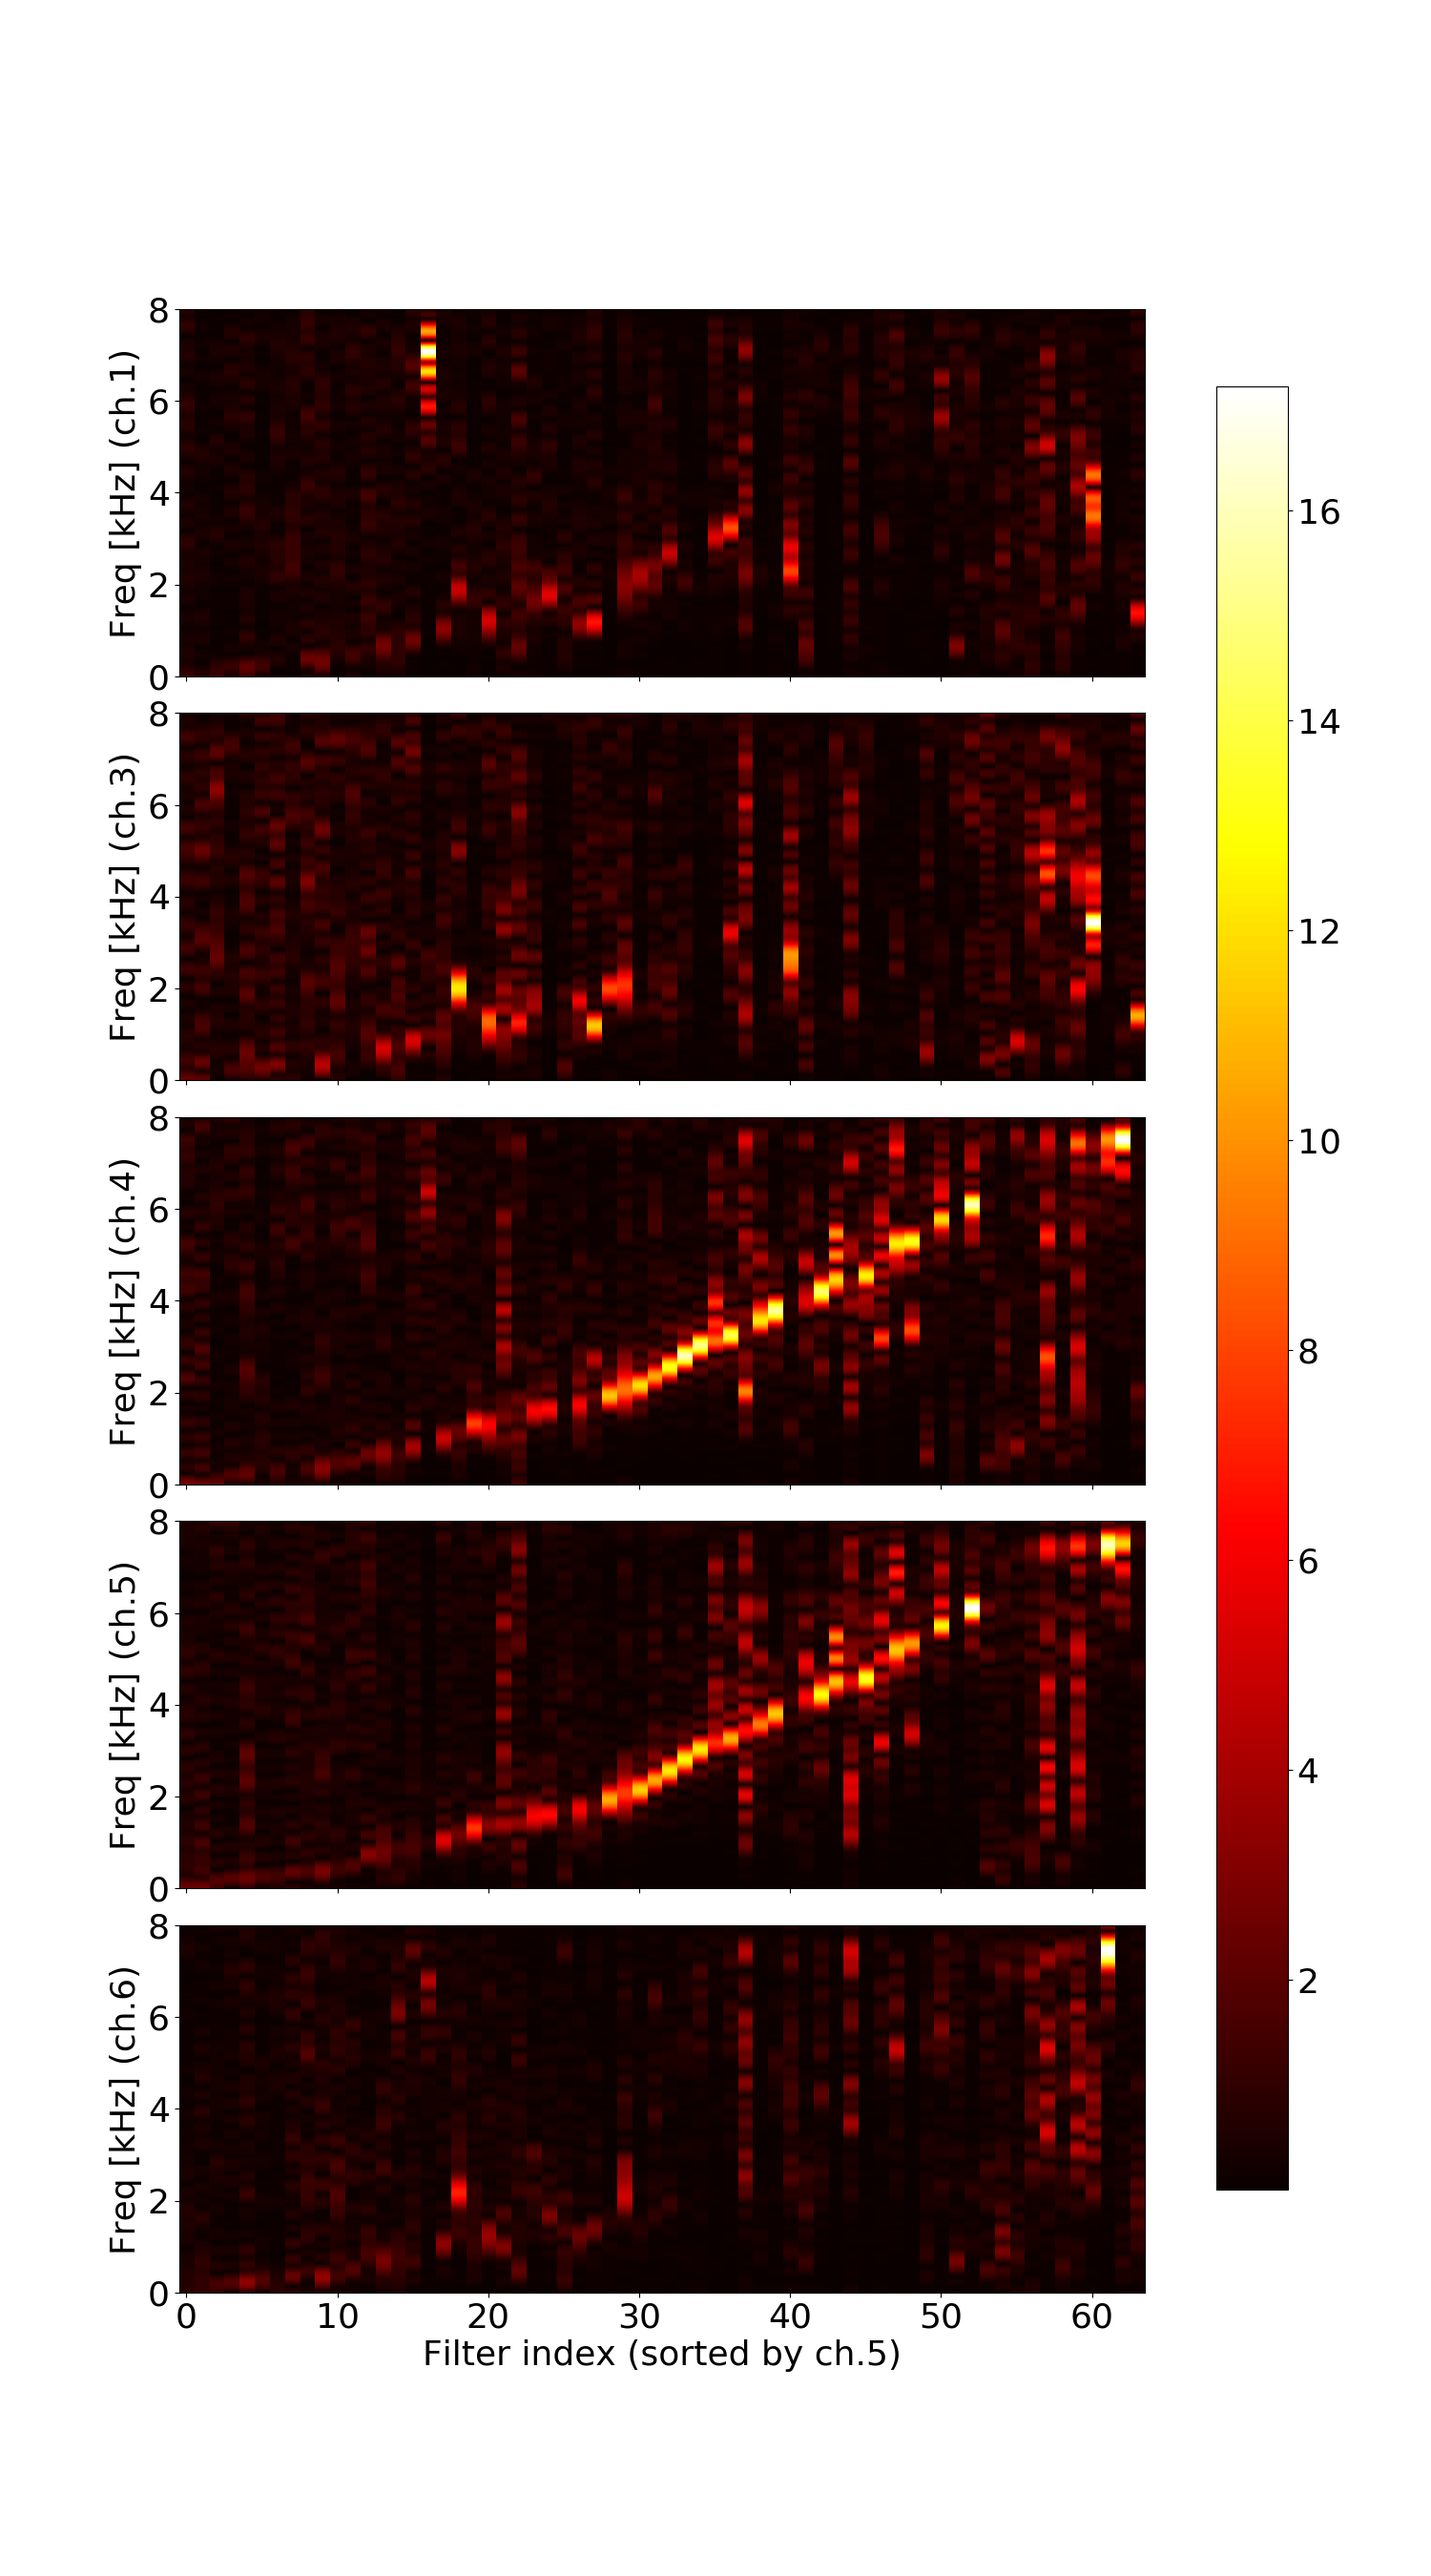
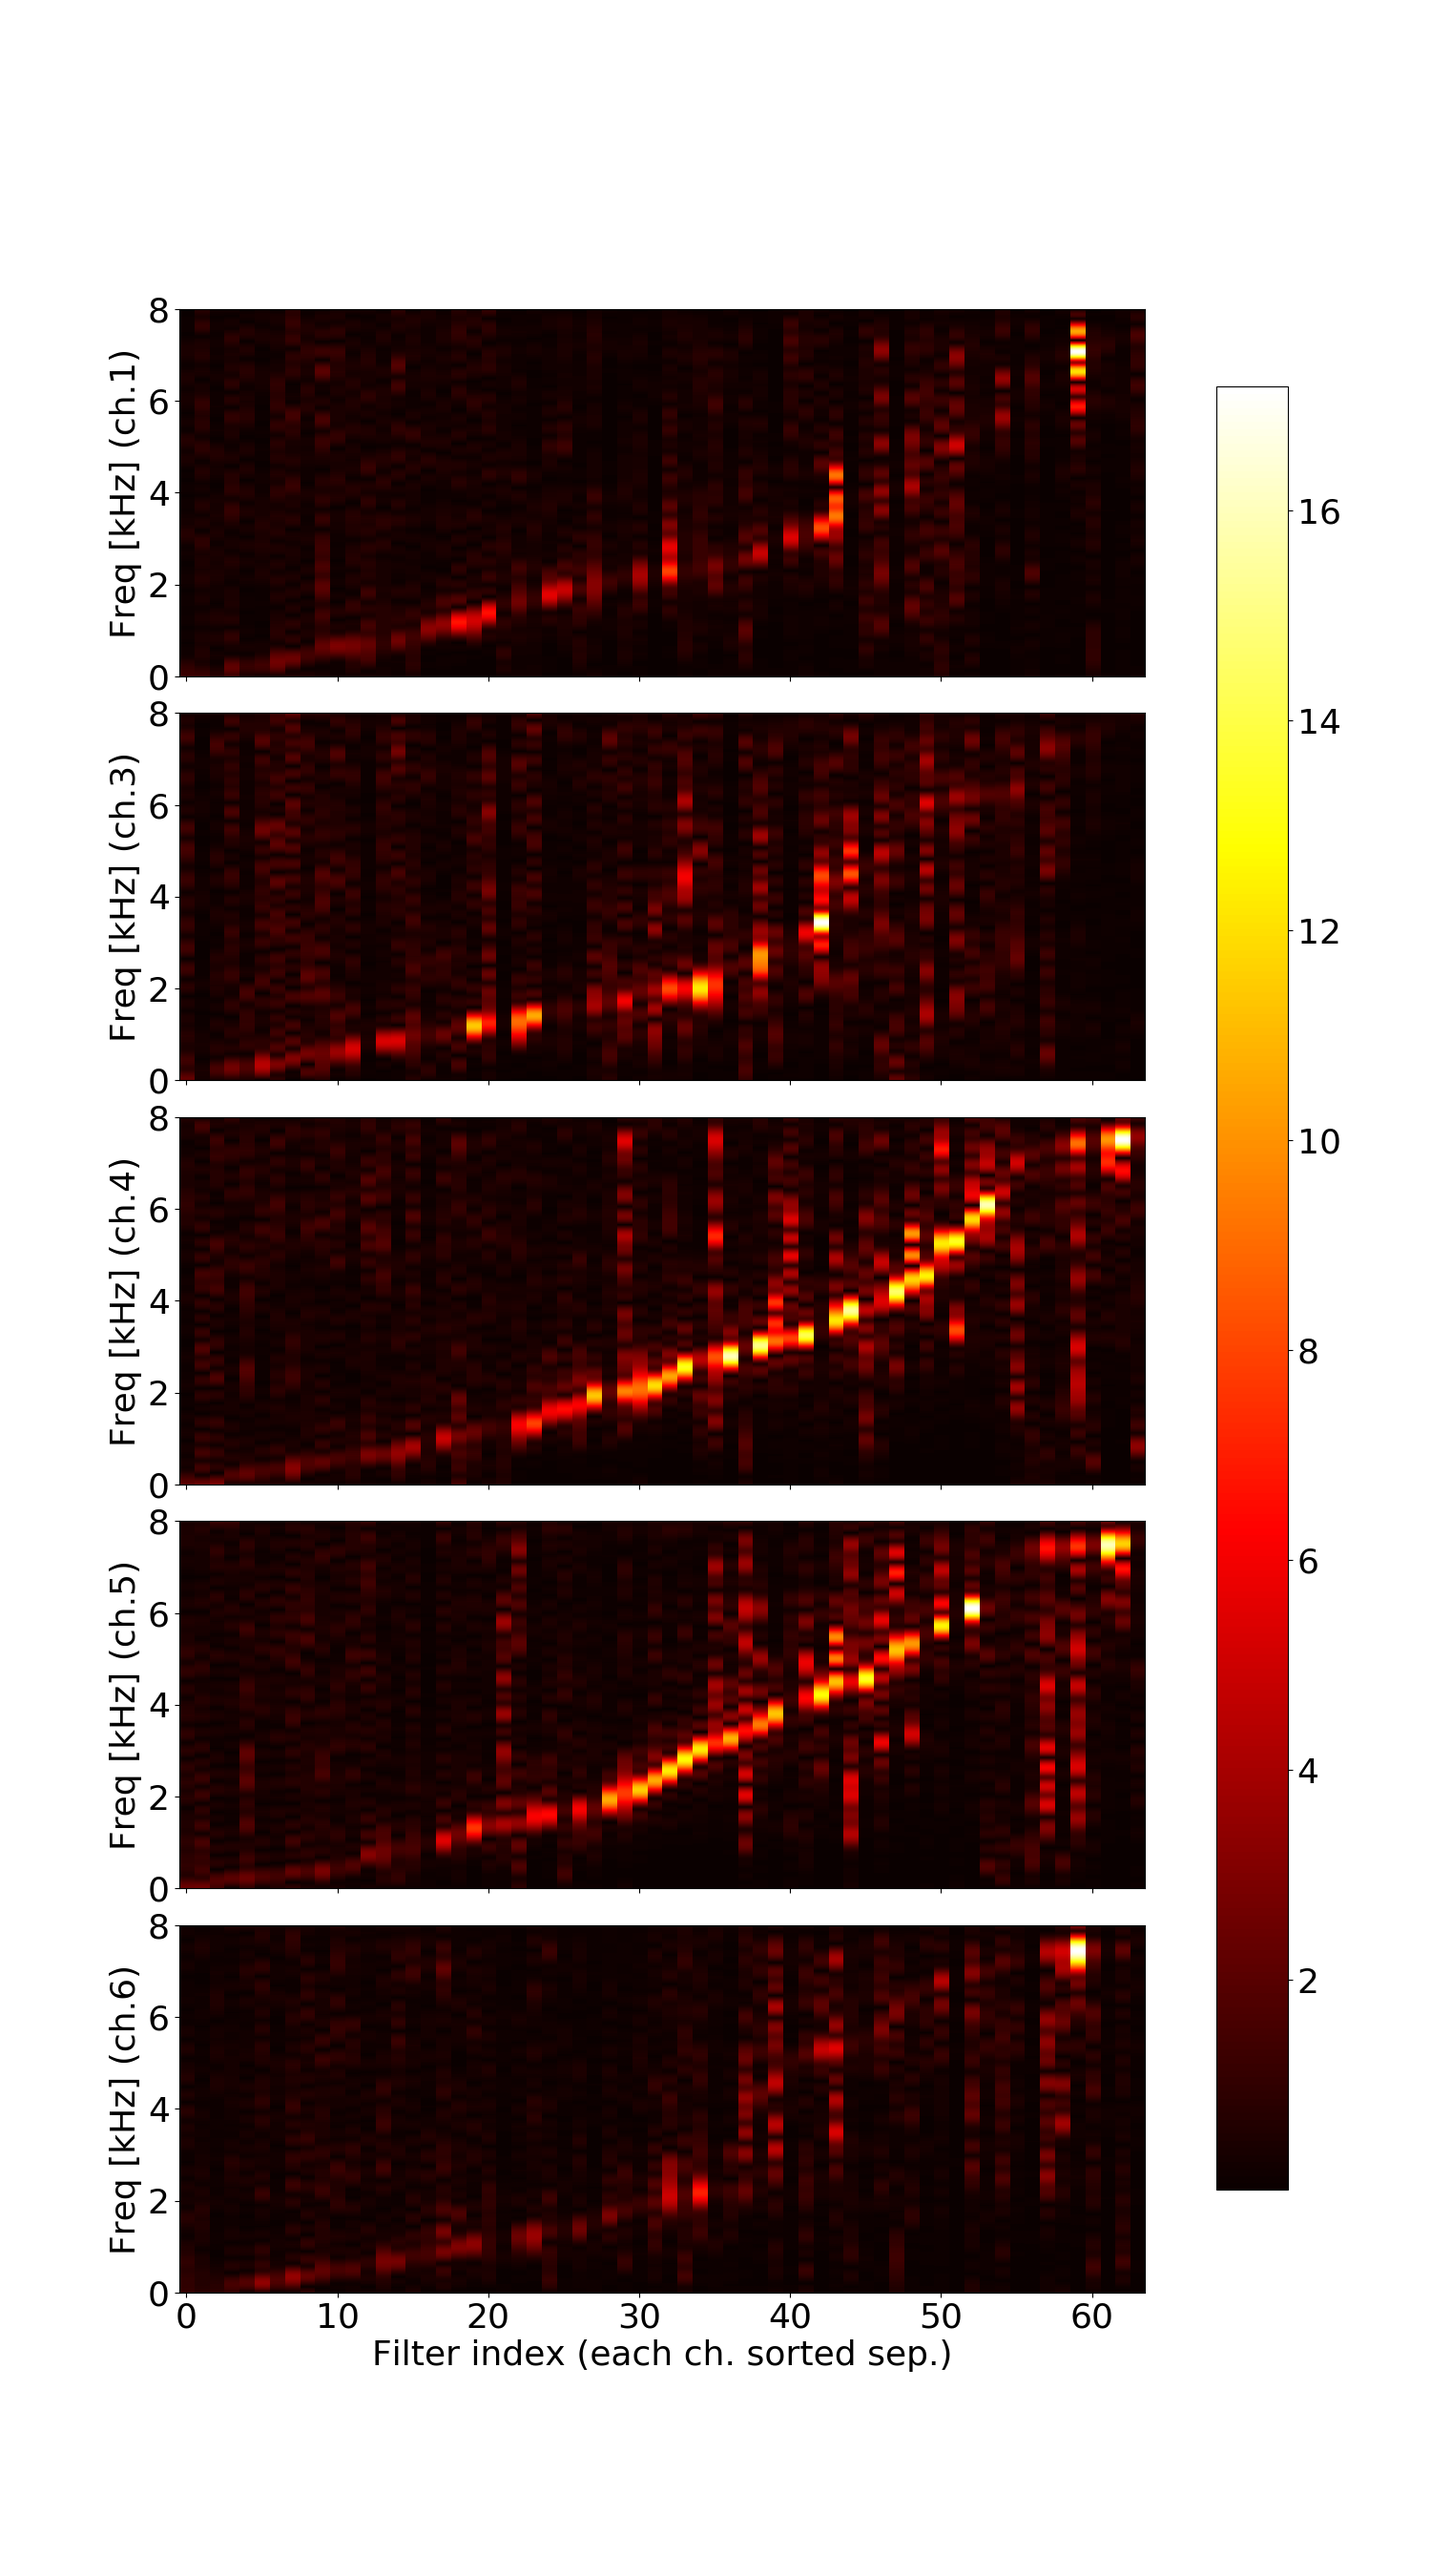
up

diff --git a/returnnTfNetworkLayerPlotter.py b/returnnTfNetworkLayerPlotter.py
@@ -530,8 +530,8 @@ class Plotter(object):
                 axs[dimInputIdx][epochRangeIdx].yaxis.set_major_formatter(plt.FuncFormatter(format_func))
                 axs[dimInputIdx][epochRangeIdx].set_ylabel('Freq [kHz] (ch.' + channels[dimInputIdx] + ')')
 #                axs[dimInputIdx][epochRangeIdx].set_ylabel(self.layer.domain + '_for_channel_' + str(dimInputIdx))
-#            axs[-1][epochRangeIdx].set_xlabel('Filter index (each ch. sorted sep.)')
-            axs[-1][epochRangeIdx].set_xlabel('Filter index (sorted by ch.5)')
+            axs[-1][epochRangeIdx].set_xlabel('Filter index (each ch. sorted sep.)')
+#            axs[-1][epochRangeIdx].set_xlabel('Filter index (sorted by ch.5)')
 #                axs[dimInputIdx][epochRangeIdx].set_xlabel('filterIdx_' + mode + '_for epoch' + '_' + '%03d' % (self.epochRangeToPlot[epochRangeIdx],))
 
         fig.subplots_adjust(hspace=0.1)
